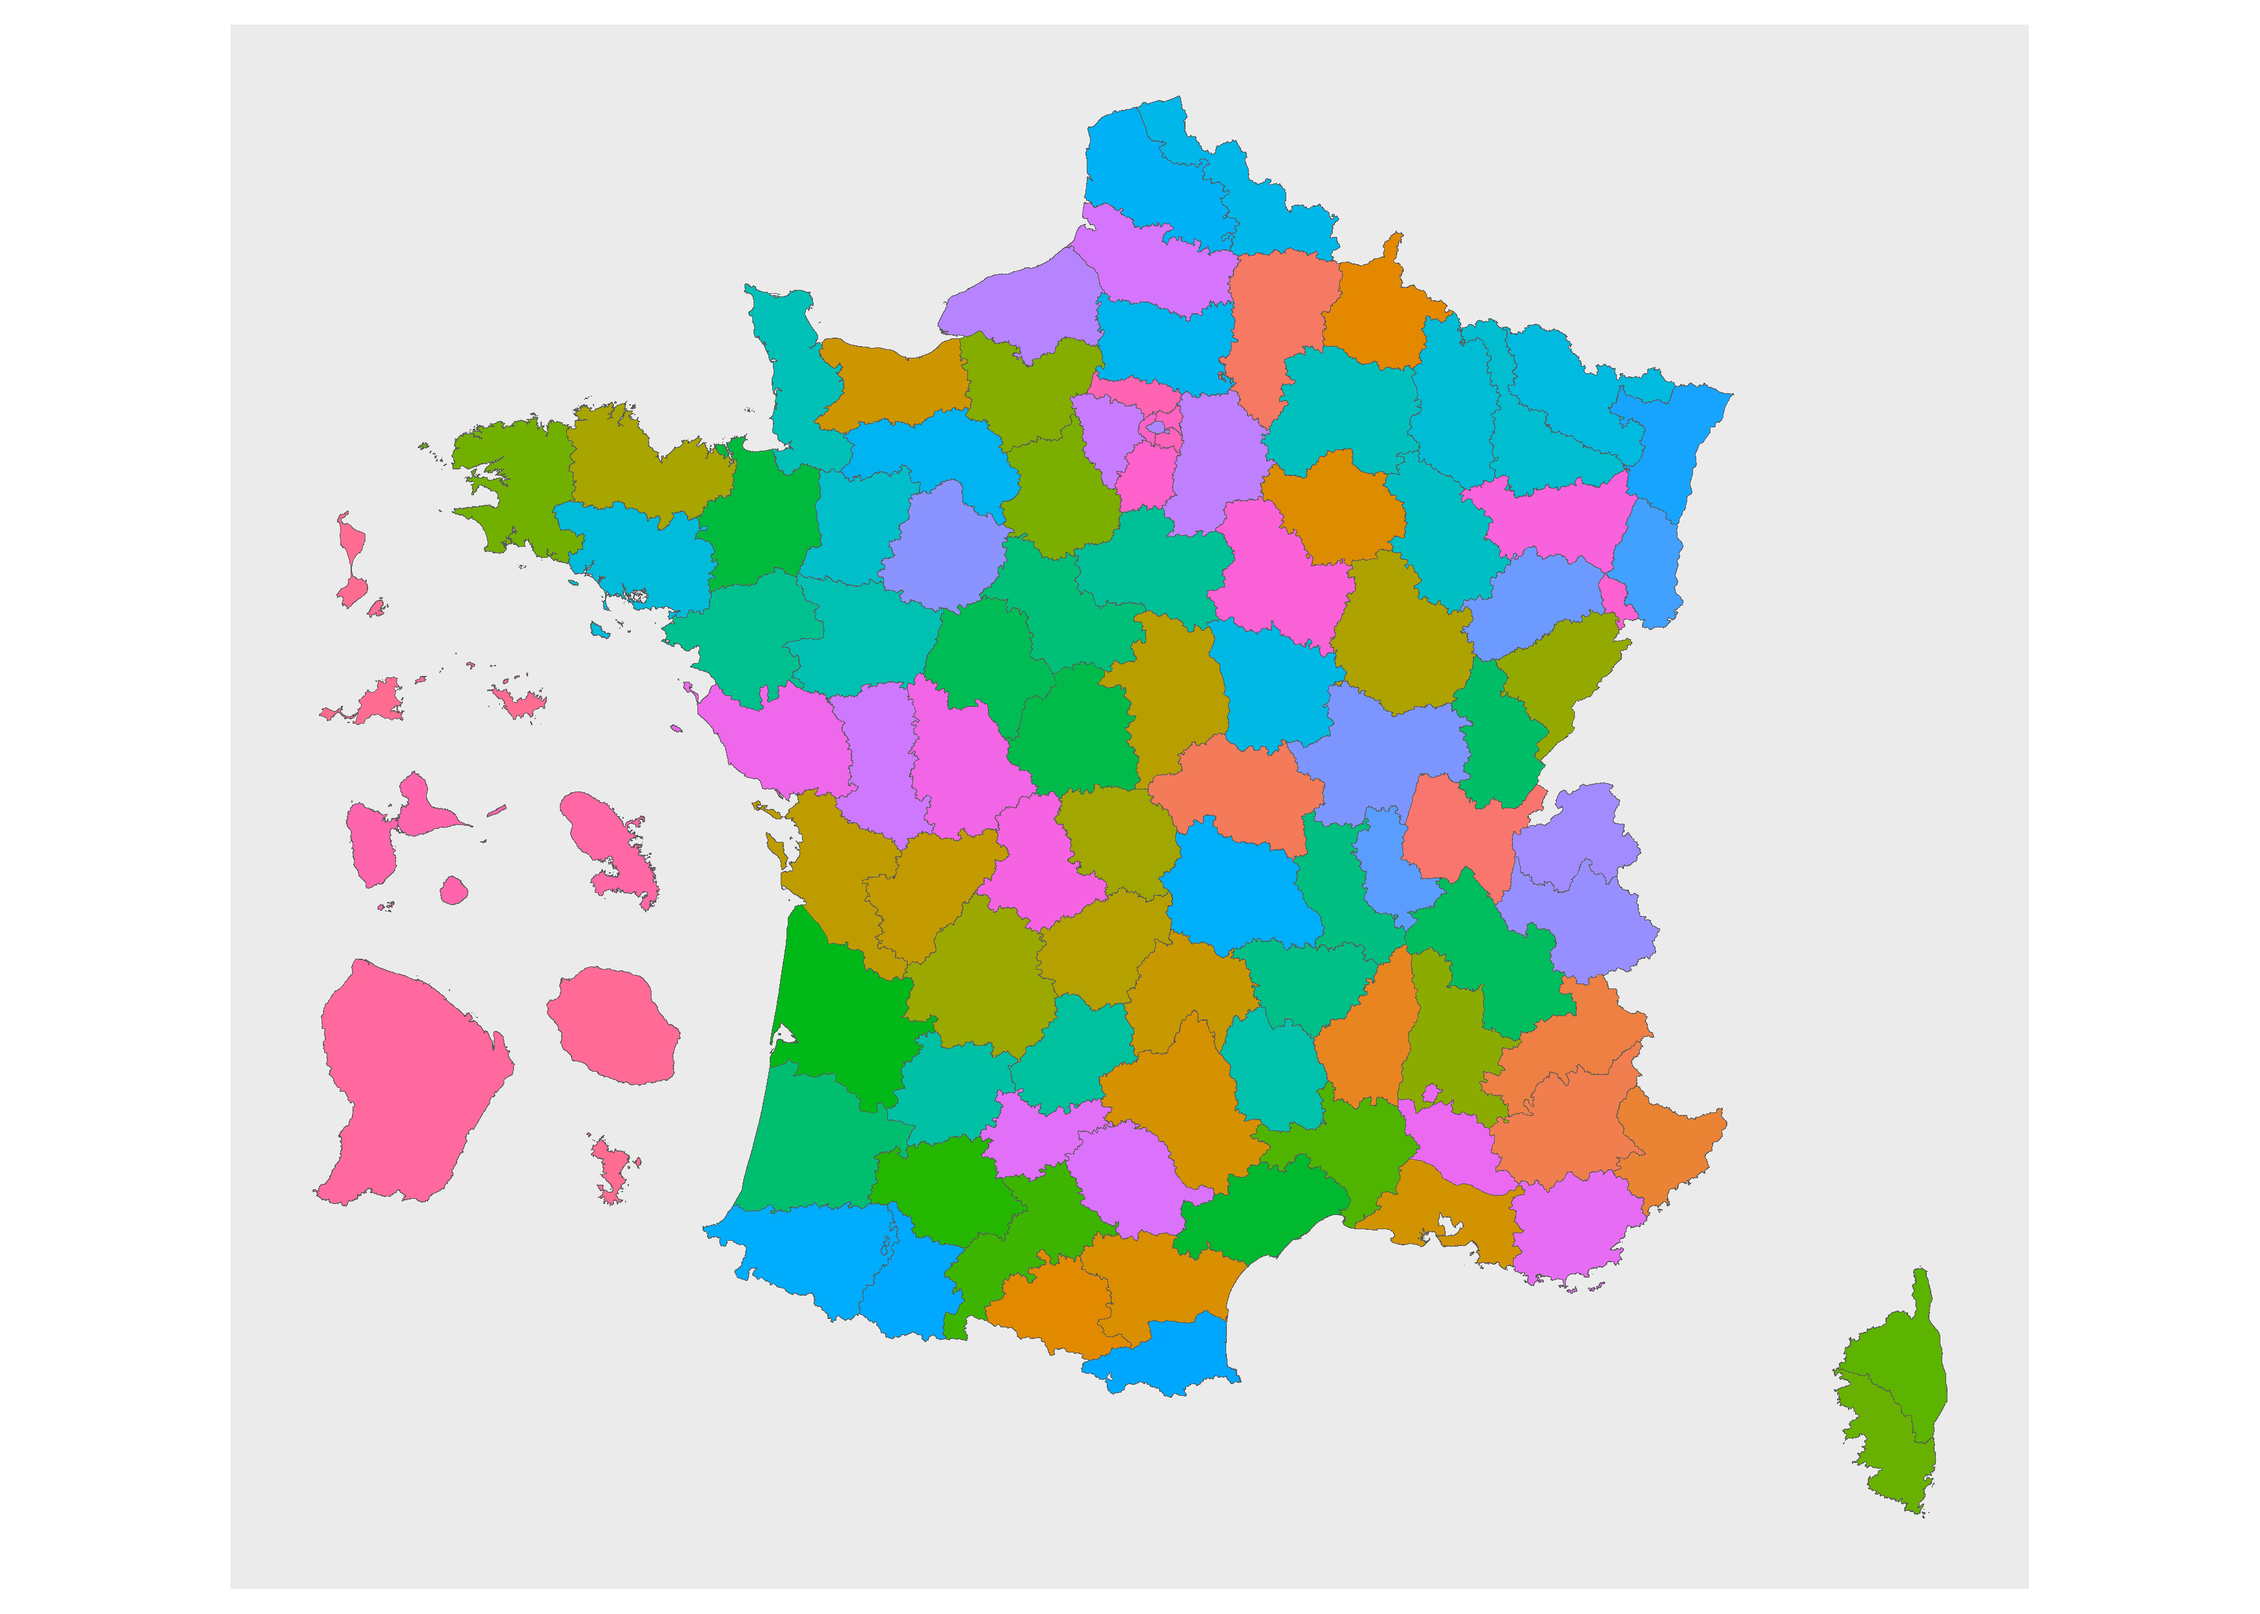
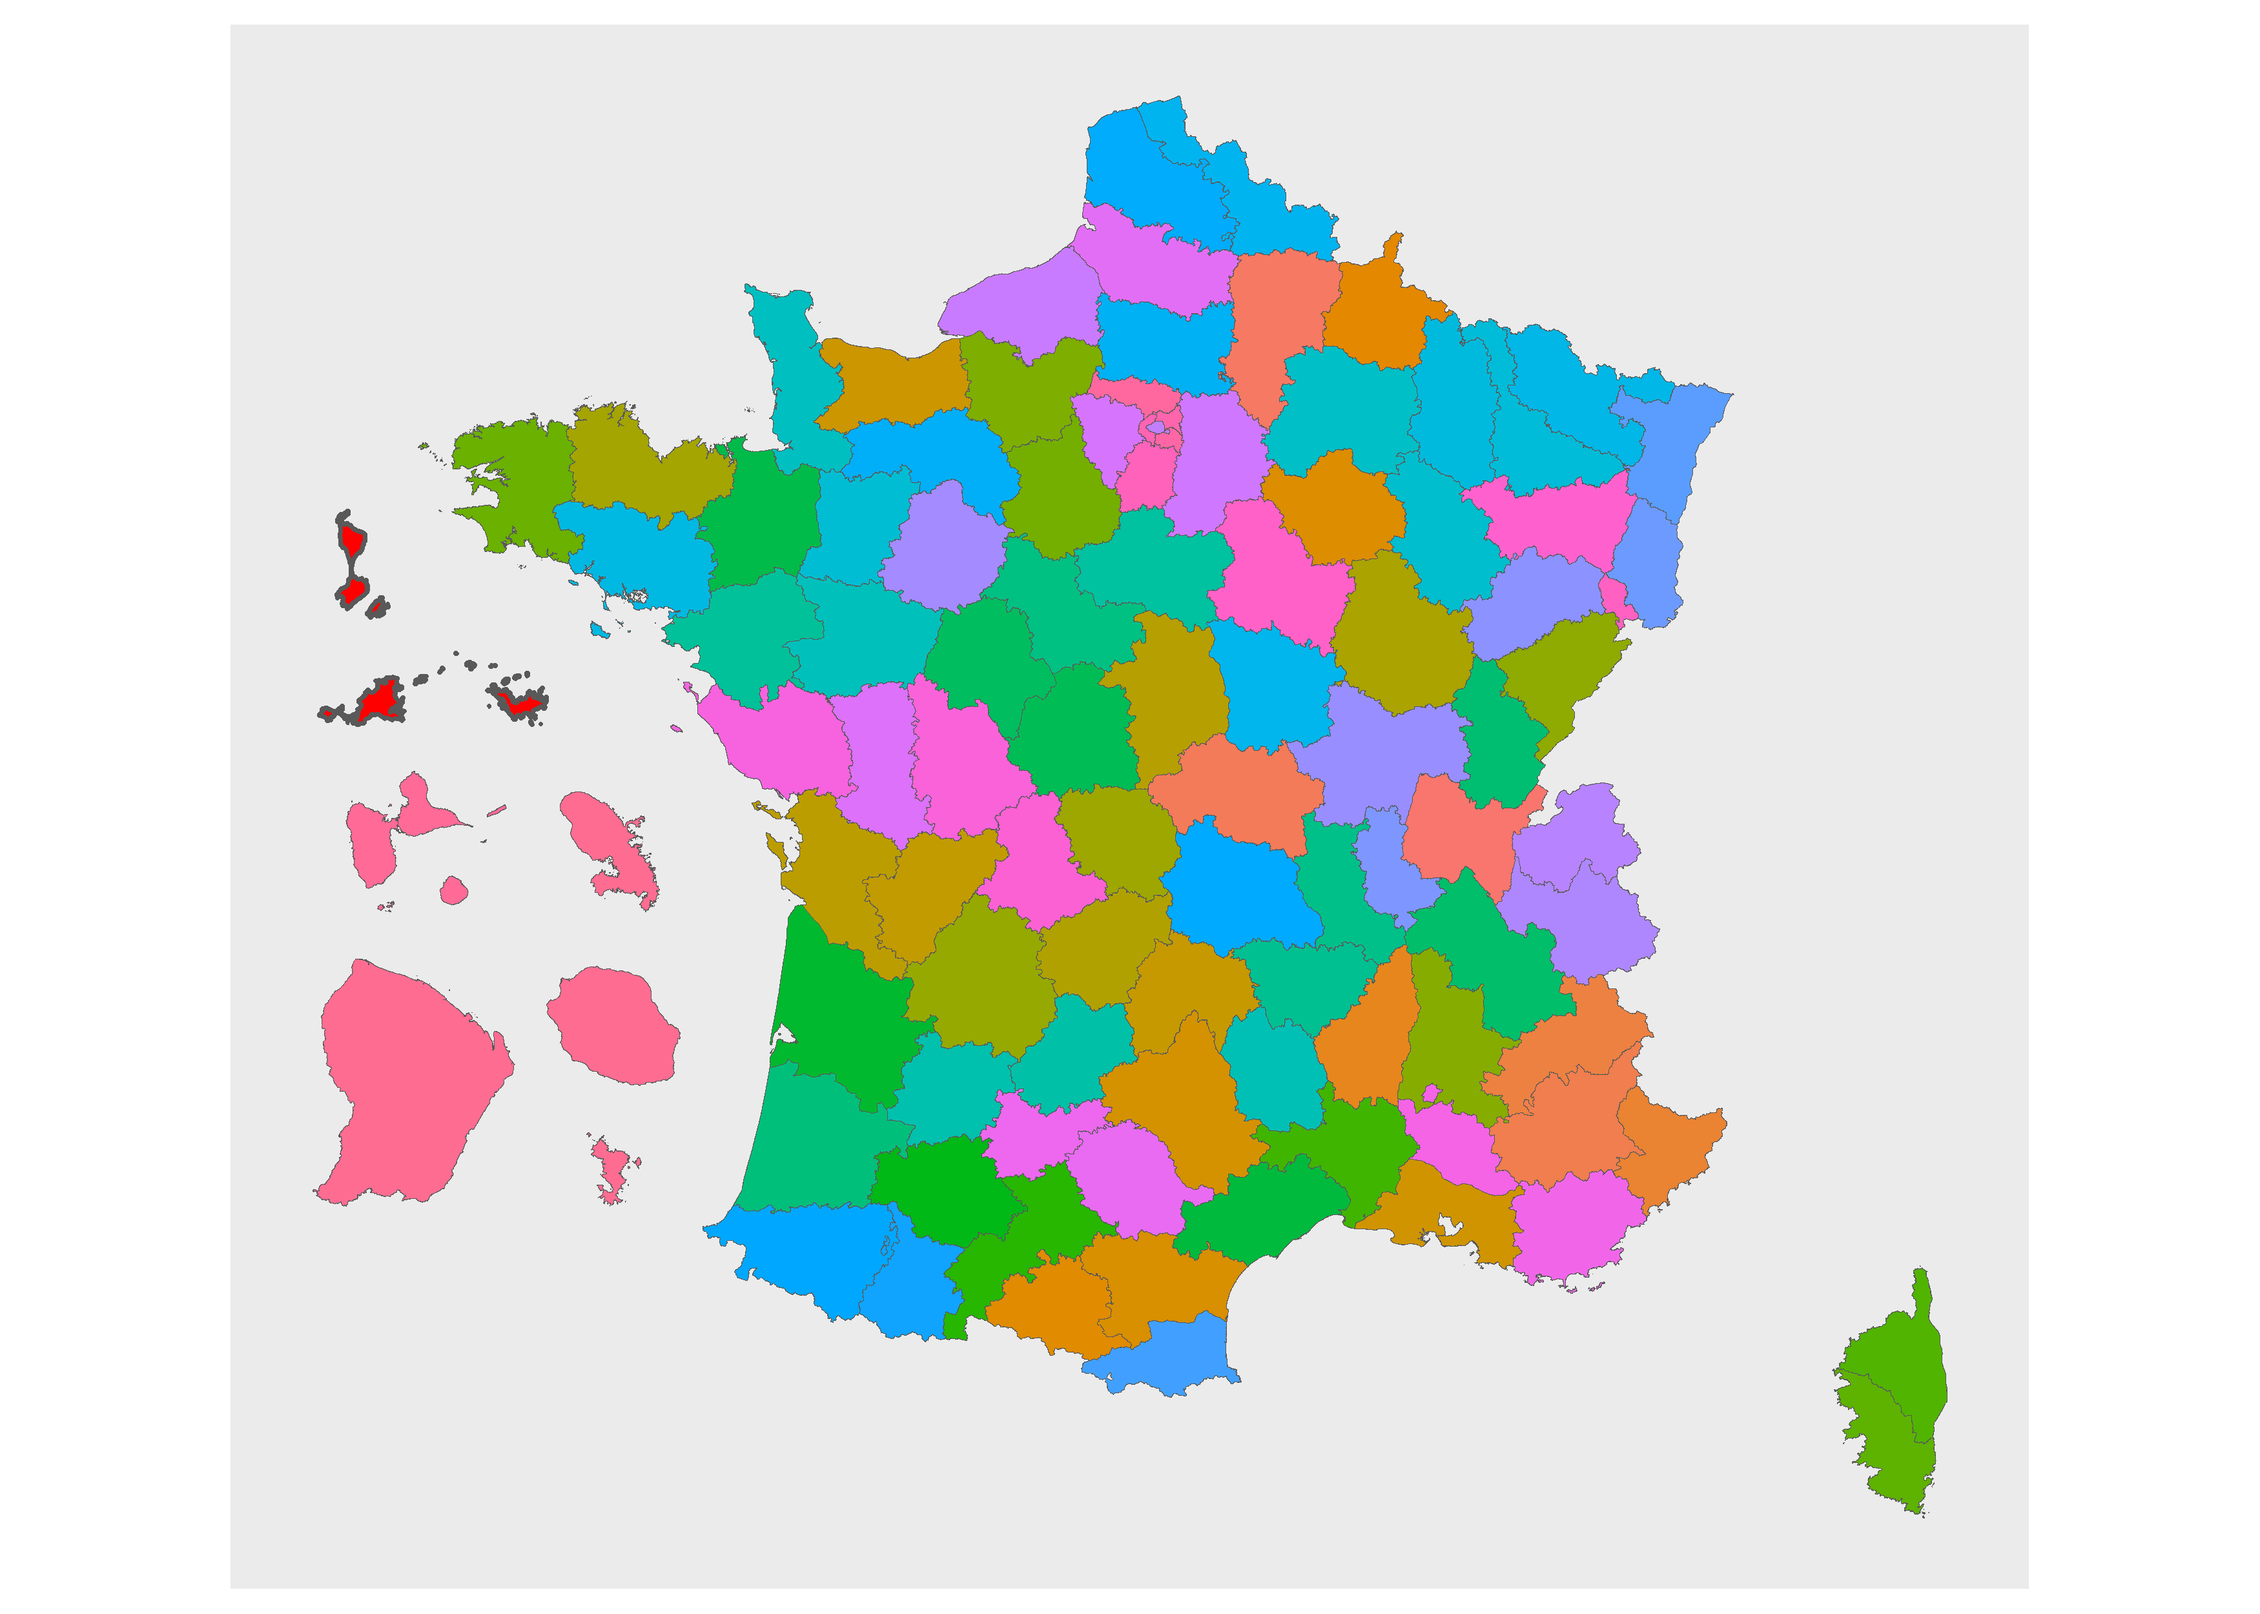
exemple readme avec transformation de frmet et drom ensemble

diff --git a/README.md b/README.md
@@ -51,32 +51,22 @@ url$query <- list(service = "wfs",
 
 DEP_FRMETDROM <- build_url(url) %>% read_sf() %>% select(-gml_id, -insee_reg)
 
-# sélection des départements de France métropolitaine et conversion en projection conforme (RGF 93)
-DEP_FRMET <-
-  DEP_FRMETDROM %>%
-  filter(!substr(insee_dep,1,2) %in% "97") %>%
-  st_transform(2154)
-
 # transformation des DROM pour les afficher à proximité de la France métropolitaine
-DEP_FRDROM.proches <-
-  transfo_om(shape_origine = DEP_FRMETDROM %>%
-                             # uniquement les DROM
-                             filter(substr(insee_dep,1,2) %in% "97"),
+DEP_FRMETDROM.proches <-
+  transfo_om(shape_origine = DEP_FRMETDROM,
              var_departement = "insee_dep",
              type_transfo = "v1")
 
-
-# cartographie avec ggplot 
+# cartographie avec ggplot
 library(ggplot2)
 ggplot() +
-  geom_sf(data = DEP_FRMET %>%
-                # agrégation des DROM visuellement rapprochés
-                rbind.data.frame(DEP_FRDROM.proches))
+  geom_sf(data = DEP_FRMETDROM.proches)
 ```
 
-<img src="man/figures/README-carto_drom-1.png" width="100%" />
+<img src="man/figures/README-carto_frmetdrom-1.png" width="100%" />
 
 ``` r
+
 # ajout des COM 975/977/978
 
 DEP_977_978 <- st_read("https://static.data.gouv.fr/resources/decoupage-administratif-des-com-st-martin-et-st-barthelemy-et-com-saint-pierre-et-miquelon-format-admin-express/20220506-142254/departement.geojson",quiet = TRUE) %>%
@@ -100,16 +90,15 @@ DEP_975.proche <-
 
 # cartographie 
 ggplot() +
-  geom_sf(data = DEP_FRMET %>%
-                # agrégation des DROM visuellement rapprochés
-                rbind.data.frame(DEP_FRDROM.proches) %>%
-                # agrégation des COM visuellement rapprochés
-                rbind.data.frame(DEP_975.proche) %>%
-                rbind.data.frame(DEP_977_978.proche),
+  geom_sf(data = DEP_FRMETDROM.proches,
           aes(fill = insee_dep),
           show.legend = FALSE,
           lwd  = 0) +
-  coord_sf(crs = 2154, datum = NA)
+  geom_sf(data = # agrégation des COM visuellement rapprochés
+                DEP_975.proche %>%
+                bind_rows(DEP_977_978.proche),
+          fill = "red") +
+  coord_sf( datum = NA)
 ```
 
 <img src="man/figures/README-carto_com-1.png" width="100%" />
@@ -118,12 +107,10 @@ ggplot() +
 
 ``` r
 ggplot() +
-  geom_sf(data = DEP_FRMET %>%
-                # agrégation des DROM visuellement rapprochés
-                rbind.data.frame(DEP_FRDROM.proches) %>%
+  geom_sf(data = DEP_FRMETDROM.proches %>%
                 # agrégation des COM visuellement rapprochés
-                rbind.data.frame(DEP_975.proche) %>%
-                rbind.data.frame(DEP_977_978.proche)) +
+                bind_rows(DEP_975.proche) %>%
+                bind_rows(DEP_977_978.proche)) +
   # délimitations des zones
   geom_rect(data = param_cadres_om,
               aes(xmin = xmin, xmax = xmax, 
@@ -139,7 +126,9 @@ ggplot() +
                    label = DEP),
                fill = NA,
                size = 2.3,
-               fontface = "bold")
+               fontface = "bold") +
+  theme(axis.title = element_blank(),
+        axis.text = element_blank())
 ```
 
 <img src="man/figures/README-cartons-1.png" width="100%" />
